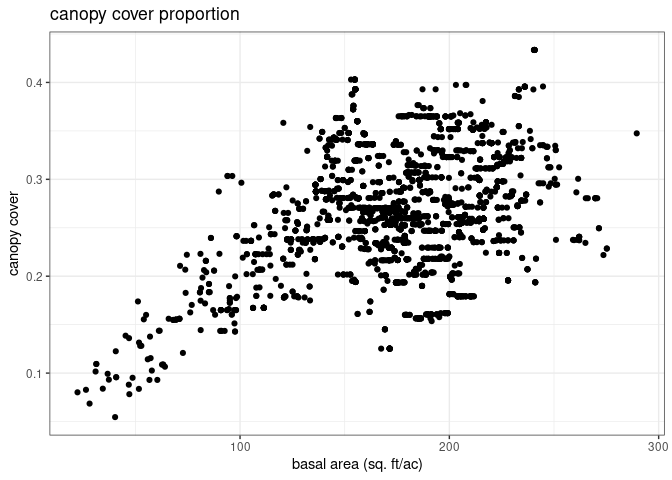
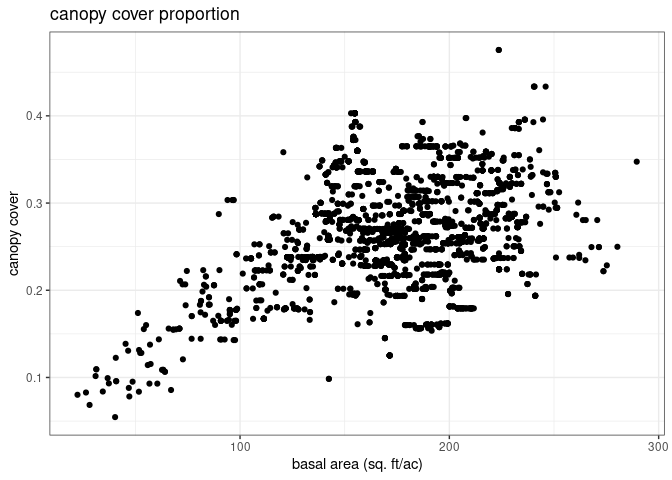
add additional information about canopy cover

diff --git a/README.md b/README.md
@@ -332,14 +332,14 @@ and some diagnostic tables (`backcasted$comp_stats`,
 species (`common`) and diameter per pixel.
 
 ``` scroll-200
-#> Rows: 596,345
+#> Rows: 599,040
 #> Columns: 6
-#> $ pix_ctr_wkt <chr> "POINT(-1771275 -455355)", "POINT(-1771275 -455355)", "PO…
-#> $ map_code    <chr> "10_11_2003", "10_11_2003", "10_11_2003", "10_11_2003", "…
+#> $ pix_ctr_wkt <chr> "POINT(-1768035 -455625)", "POINT(-1771275 -455355)", "PO…
+#> $ map_code    <chr> "10_11_1889", "10_11_2003", "10_11_1889", "10_11_2003", "…
 #> $ pix_area_ha <dbl> 0.81, 0.81, 0.81, 0.81, 0.81, 0.81, 0.81, 0.81, 0.81, 0.8…
-#> $ common      <chr> "California black oak", "ponderosa pine", "California bla…
-#> $ diameter    <int> 2, 5, 5, 6, 7, 8, 9, 10, 11, 12, 13, 14, 15, 16, 24, 26, …
-#> $ nTrees      <dbl> 57.891, 5.572, 14.138, 10.092, 11.434, 1.531, 13.562, 10.…
+#> $ common      <chr> "California black oak", "California black oak", "ponderos…
+#> $ diameter    <int> 2, 2, 5, 5, 5, 5, 6, 6, 7, 7, 8, 8, 9, 9, 10, 10, 11, 11,…
+#> $ nTrees      <dbl> 57.891, 57.891, 5.572, 5.572, 14.138, 14.138, 10.092, 10.…
 ```
 
 #### Canopy Cover
@@ -348,7 +348,8 @@ There is a function called `estimate_canopy_cover` that will pull canopy
 cover values from local FIA data based on density of overstory trees.
 When a treelist dataframe is passed to this function it will return a
 dataframe with canopy cover expressed as a proportion (0 - 1) for each
-pixel.
+pixel. These values can readily converted to a percent by multiplying
+the value by 100.
 
 ``` r
 cc <- estimate_canopy_cover(backcasted$trees)
@@ -359,9 +360,9 @@ cc <- estimate_canopy_cover(backcasted$trees)
 #> Columns: 5
 #> $ pix_ctr_wkt <chr> "POINT(-1767045 -454545)", "POINT(-1767045 -454635)", "PO…
 #> $ map_code    <chr> "10_11_2500", "10_11_2450", "10_11_2400", "10_11_2350", "…
-#> $ bapa        <dbl> 156.6060, 201.2228, 171.8924, 140.3732, 163.4754, 159.594…
-#> $ tpa         <dbl> 170.0565, 245.9419, 175.7670, 149.6056, 188.9714, 213.316…
-#> $ cc          <dbl> 0.2803961, 0.2738877, 0.2529169, 0.2878380, 0.3361558, 0.…
+#> $ bapa        <dbl> 156.6060, 201.2228, 174.4784, 136.2411, 163.4754, 156.289…
+#> $ tpa         <dbl> 170.0565, 245.9419, 201.0491, 154.1206, 188.9714, 194.188…
+#> $ cc          <dbl> 0.2803961, 0.2738877, 0.1934686, 0.2873319, 0.3361558, 0.…
 ```
 
 <img src="man/figures/README-canopy_cover_plot-1.png" width="80%" />
@@ -380,7 +381,7 @@ share of biomass for each pixel.
 
 |            attribute             | original mean | matched mean | RMSE | RMSE % |
 | :------------------------------: | :-----------: | :----------: | :--: | :----: |
-| aboveground\_biomass\_g\_per\_m2 |     2852      |     2815     | 116  |   4    |
+| aboveground\_biomass\_g\_per\_m2 |     2852      |     2817     | 115  |   4    |
 
 #### Biomass by species
 
@@ -388,39 +389,39 @@ share of biomass for each pixel.
 
 |     species     | original mean | matched mean |  RMSE  | RMSE % |
 | :-------------: | :-----------: | :----------: | :----: | :----: |
-|    PseuMenz     |     1138      |     1152     | 95.73  |   8    |
-|    AbieConc     |      524      |    516.5     | 98.11  |   19   |
-|    CaloDecu     |     453.4     |     421      | 117.6  |   26   |
-|    PinuPond     |     362.5     |    367.5     | 90.88  |   25   |
-|    PinuLamb     |     152.8     |    154.8     | 71.33  |   47   |
-|    QuerKell     |     98.18     |    93.13     | 71.53  |   73   |
-|    QuerChry     |     39.03     |    34.23     | 55.83  |  143   |
-|    AcerMacr     |     17.25     |    13.98     | 41.22  |  239   |
-|    QuerWisl     |     8.485     |     7.83     | 27.82  |  328   |
-|    AbieMagn     |     7.563     |    5.405     | 27.82  |  368   |
-|    ArbuMenz     |     7.465     |    6.497     | 27.37  |  367   |
-|    PinuJeff     |     6.857     |     6.09     | 26.07  |  380   |
-|    LithDens     |     6.416     |    8.038     | 29.26  |  456   |
-|    AlnuRhom     |     5.756     |    4.566     | 21.98  |  382   |
-|  NOFX\_R\_SEED  |     5.039     |     4.68     | 7.767  |  154   |
-|    TsugMert     |     4.166     |    4.593     | 25.54  |  613   |
-|    PinuSabi     |     3.656     |    3.292     | 20.27  |  555   |
-|    CornNutt     |     2.504     |    2.274     | 5.843  |  233   |
-|   FX\_R\_SEED   |     1.543     |     1.61     | 3.481  |  226   |
-|    PinuMono     |     1.493     |    0.6447    | 18.33  |  1228  |
-|    QuerDoug     |     1.346     |    0.9316    | 9.797  |  728   |
-|    JuniOcci     |     1.308     |    1.334     | 12.32  |  942   |
-|    AescCali     |     1.019     |    0.7516    |  6.14  |  603   |
-|    PinuMont     |    0.8548     |    0.6991    | 5.959  |  697   |
-|    PopuTrem     |    0.6074     |    0.8838    | 8.406  |  1384  |
-| NOFX\_NOR\_SEED |    0.3187     |    0.4214    | 2.514  |  789   |
-|    PinuCont     |    0.2669     |    0.2069    | 2.266  |  849   |
-|    QuerGarr     |    0.09528    |    0.2158    | 2.537  |  2662  |
-|    TaxuBrev     |    0.07983    |    0.123     | 1.387  |  1737  |
-|    TorrCali     |    0.06021    |   0.05258    | 0.5521 |  917   |
-|    UmbeCali     |    0.0512     |   0.05174    | 0.976  |  1906  |
-|    PinuAlbi     |    0.02423    |   0.000626   | 0.6206 |  2561  |
-|    PinuAtte     |    0.00294    |   0.09314    | 1.577  | 53638  |
+|    PseuMenz     |     1138      |     1154     | 93.66  |   8    |
+|    AbieConc     |      524      |     515      | 99.12  |   19   |
+|    CaloDecu     |     453.4     |    419.1     | 117.9  |   26   |
+|    PinuPond     |     362.5     |    367.6     | 90.97  |   25   |
+|    PinuLamb     |     152.8     |    156.2     | 73.38  |   48   |
+|    QuerKell     |     98.18     |    93.67     | 72.36  |   74   |
+|    QuerChry     |     39.03     |     33.3     | 56.94  |  146   |
+|    AcerMacr     |     17.25     |    14.89     | 41.71  |  242   |
+|    QuerWisl     |     8.485     |    7.811     |  28.1  |  331   |
+|    AbieMagn     |     7.563     |    5.436     | 28.25  |  374   |
+|    ArbuMenz     |     7.465     |     6.39     | 28.36  |  380   |
+|    PinuJeff     |     6.857     |    6.193     | 26.73  |  390   |
+|    LithDens     |     6.416     |    8.419     | 30.02  |  468   |
+|    AlnuRhom     |     5.756     |    4.707     | 23.22  |  403   |
+|  NOFX\_R\_SEED  |     5.039     |    4.634     | 7.793  |  155   |
+|    TsugMert     |     4.166     |    5.103     | 26.84  |  644   |
+|    PinuSabi     |     3.656     |    3.516     | 19.95  |  546   |
+|    CornNutt     |     2.504     |    2.258     | 6.417  |  256   |
+|   FX\_R\_SEED   |     1.543     |    1.595     |  3.5   |  227   |
+|    PinuMono     |     1.493     |    0.5074    | 18.18  |  1218  |
+|    QuerDoug     |     1.346     |    1.174     | 10.15  |  754   |
+|    JuniOcci     |     1.308     |    1.668     |   13   |  994   |
+|    AescCali     |     1.019     |    0.7846    | 6.017  |  591   |
+|    PinuMont     |    0.8548     |    0.6748    | 6.286  |  735   |
+|    PopuTrem     |    0.6074     |    0.9544    | 9.092  |  1497  |
+| NOFX\_NOR\_SEED |    0.3187     |    0.3686    | 2.429  |  762   |
+|    PinuCont     |    0.2669     |    0.2759    | 2.386  |  894   |
+|    QuerGarr     |    0.09528    |    0.2404    | 2.714  |  2848  |
+|    TaxuBrev     |    0.07983    |    0.1354    | 1.465  |  1835  |
+|    TorrCali     |    0.06021    |    0.0468    | 0.5392 |  896   |
+|    UmbeCali     |    0.0512     |   0.05308    | 0.9586 |  1872  |
+|    PinuAlbi     |    0.02423    |   0.005799   | 0.6377 |  2631  |
+|    PinuAtte     |    0.00294    |   0.04703    | 0.9043 | 30755  |
 
 #### Biomass by age class
 
@@ -428,41 +429,41 @@ share of biomass for each pixel.
 
 | age class | original mean | matched mean |  RMSE   | RMSE % |
 | :-------: | :-----------: | :----------: | :-----: | :----: |
-|  0 - 10   |   0.006766    |   0.008978   | 0.09616 |  1421  |
-|  10 - 20  |      3.4      |    3.753     |  4.862  |  143   |
-|  20 - 30  |     3.871     |      4       |  7.229  |  187   |
-|  30 - 40  |     11.94     |    12.01     |  8.323  |   70   |
-|  40 - 50  |     46.69     |    47.47     |  17.14  |   37   |
-|  50 - 60  |     82.95     |    80.92     |  23.48  |   28   |
-|  60 - 70  |     136.6     |    131.4     |  37.24  |   27   |
-|  70 - 80  |     156.8     |    153.7     |  38.23  |   24   |
-|  80 - 90  |     164.3     |    157.3     |  48.01  |   29   |
-| 90 - 100  |     174.5     |    174.3     |  43.05  |   25   |
-| 100 - 110 |     182.8     |    175.2     |  50.06  |   27   |
-| 110 - 120 |     179.6     |     183      |  54.06  |   30   |
-| 120 - 130 |     202.3     |    209.3     |  68.49  |   34   |
-| 130 - 140 |      185      |    177.8     |  64.15  |   35   |
-| 140 - 150 |     133.7     |    132.2     |  37.48  |   28   |
-| 150 - 160 |     155.3     |    156.6     |  39.02  |   25   |
-| 160 - 170 |     180.2     |     184      |  44.06  |   24   |
-| 170 - 180 |     123.3     |    128.4     |  42.58  |   35   |
-| 180 - 190 |     100.6     |    96.61     |  43.69  |   43   |
-| 190 - 200 |     89.26     |    87.73     |  39.74  |   45   |
-| 200 - 210 |     101.4     |    101.6     |  42.61  |   42   |
-| 210 - 220 |     63.84     |    57.91     |  40.16  |   63   |
-| 220 - 230 |     105.1     |    103.4     |  53.45  |   51   |
-| 230 - 240 |     127.2     |    119.1     |  70.81  |   56   |
-| 240 - 250 |     35.08     |    36.59     |  33.17  |   95   |
-| 250 - 260 |     20.04     |    18.42     |  29.52  |  147   |
-| 260 - 270 |     27.75     |    27.83     |  30.76  |  111   |
-| 270 - 280 |     48.4      |     46.8     |  32.76  |   68   |
-| 280 - 290 |    0.2187     |    0.2445    |  4.367  |  1996  |
-| 290 - 300 |     2.635     |    1.955     |  15.9   |  603   |
-| 300 - 310 |     4.736     |    3.461     |  18.06  |  381   |
-| 310 - 320 |    0.6709     |    0.4029    |  6.288  |  937   |
-| 320 - 330 |     1.141     |    0.983     |  12.83  |  1125  |
-| 340 - 350 |   0.009248    |   0.003974   | 0.08517 |  921   |
-| 350 - 360 |    0.1074     |   0.04005    |  2.728  |  2541  |
-| 360 - 370 |    0.2148     |    0.1459    |  7.25   |  3375  |
-| 380 - 390 |   0.0003472   |  0.0005916   | 0.02575 |  7415  |
-| 390 - 400 |   0.0003472   |      0       | 0.01228 |  3536  |
+|  0 - 10   |   0.006766    |   0.01016    | 0.1032  |  1525  |
+|  10 - 20  |      3.4      |    3.727     |  4.965  |  146   |
+|  20 - 30  |     3.871     |    4.047     |  7.105  |  184   |
+|  30 - 40  |     11.94     |    12.12     |  8.358  |   70   |
+|  40 - 50  |     46.69     |    47.74     |  17.2   |   37   |
+|  50 - 60  |     82.95     |    80.97     |  23.59  |   28   |
+|  60 - 70  |     136.6     |     131      |  37.42  |   27   |
+|  70 - 80  |     156.8     |    153.8     |  38.7   |   25   |
+|  80 - 90  |     164.3     |    157.5     |  48.72  |   30   |
+| 90 - 100  |     174.5     |     173      |  42.96  |   25   |
+| 100 - 110 |     182.8     |    174.9     |  50.2   |   27   |
+| 110 - 120 |     179.6     |    183.5     |  52.49  |   29   |
+| 120 - 130 |     202.3     |    209.2     |  68.52  |   34   |
+| 130 - 140 |      185      |    179.8     |  62.5   |   34   |
+| 140 - 150 |     133.7     |    132.6     |  36.18  |   27   |
+| 150 - 160 |     155.3     |    156.8     |  38.96  |   25   |
+| 160 - 170 |     180.2     |    182.3     |  44.72  |   25   |
+| 170 - 180 |     123.3     |    128.5     |  43.06  |   35   |
+| 180 - 190 |     100.6     |    96.43     |  44.03  |   44   |
+| 190 - 200 |     89.26     |    88.91     |  39.17  |   44   |
+| 200 - 210 |     101.4     |    102.6     |  42.48  |   42   |
+| 210 - 220 |     63.84     |     58.1     |  40.03  |   63   |
+| 220 - 230 |     105.1     |     103      |  51.03  |   49   |
+| 230 - 240 |     127.2     |    118.4     |  68.36  |   54   |
+| 240 - 250 |     35.08     |    36.78     |  33.45  |   95   |
+| 250 - 260 |     20.04     |    18.22     |  29.09  |  145   |
+| 260 - 270 |     27.75     |    28.08     |  30.6   |  110   |
+| 270 - 280 |     48.4      |    46.81     |  32.23  |   67   |
+| 280 - 290 |    0.2187     |    0.1744    |  3.73   |  1705  |
+| 290 - 300 |     2.635     |    2.074     |  15.9   |  603   |
+| 300 - 310 |     4.736     |    3.715     |  18.13  |  383   |
+| 310 - 320 |    0.6709     |    0.5613    |  6.785  |  1011  |
+| 320 - 330 |     1.141     |    1.042     |  12.49  |  1095  |
+| 340 - 350 |   0.009248    |   0.005018   | 0.08627 |  933   |
+| 350 - 360 |    0.1074     |   0.06944    |  3.094  |  2881  |
+| 360 - 370 |    0.2148     |    0.1094    |  7.017  |  3267  |
+| 380 - 390 |   0.0003472   |  0.0001736   | 0.01503 |  4330  |
+| 390 - 400 |   0.0003472   |  0.0001736   | 0.01503 |  4330  |
